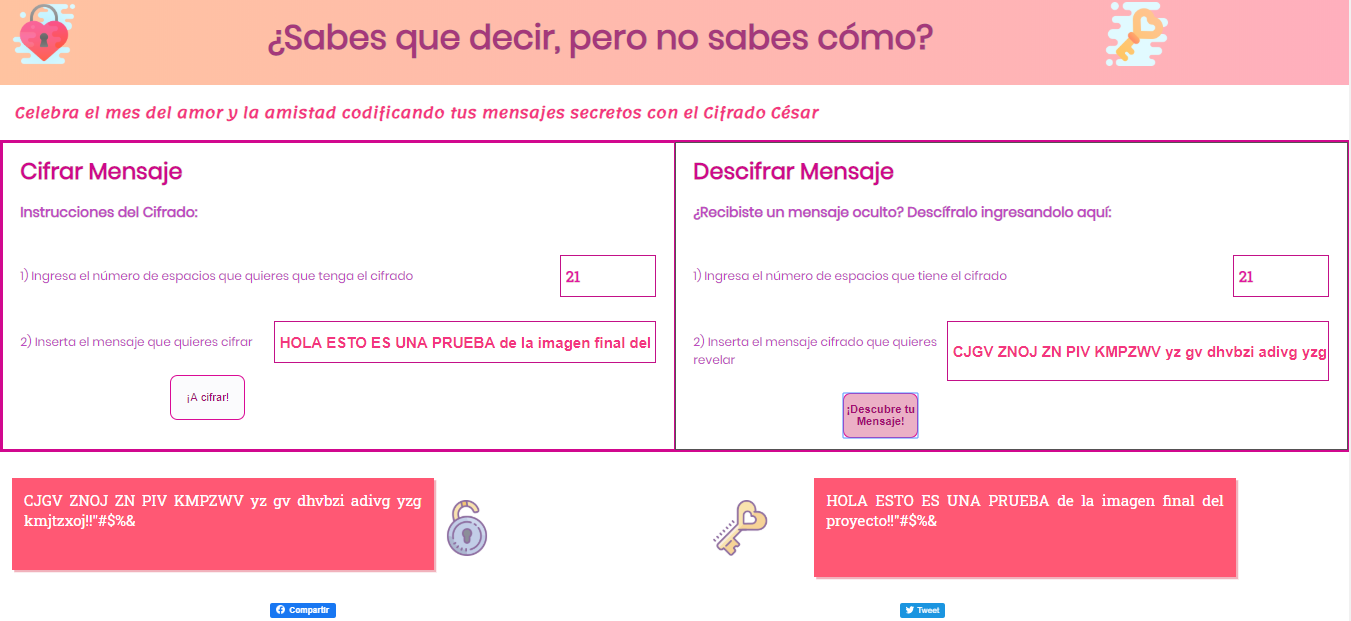
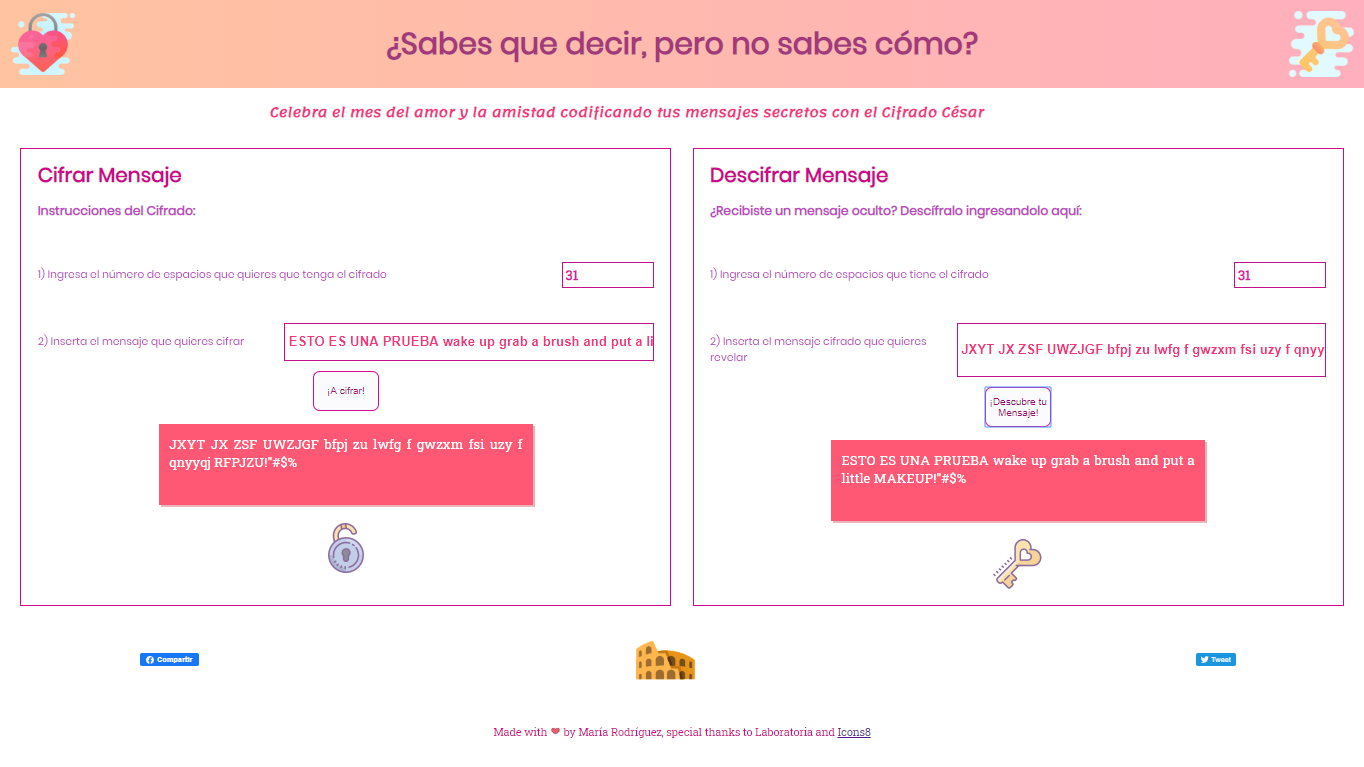
arreglos del responsive

Changed region(s): [[0.0, 0.0, 1.0, 1.0], [0.4041, 0.3366, 0.4352, 0.3671]]

diff --git a/src/style.css b/src/style.css
@@ -10,8 +10,7 @@ footer {
 
 .sharebtn {
   display: grid;
-  grid-template-columns: 45% 45%;
-  gap: 1rem;
+  grid-template-columns: 25% 50% 25%;
   margin-top: 15px;
 }
 
@@ -127,7 +126,7 @@ footer {
 
 #tittle {
   color: rgb(165, 56, 123);
-  font-size: 45px;
+  font-size: 35px;
   font-family: "Poppins", sans-serif;
   text-align: center;
   align-self: center;
@@ -187,6 +186,12 @@ footer {
   height: 90px;
 }
 
+#coliseo {
+  justify-self: center;
+  align-self: center;
+  margin-right: 8%;
+}
+
 #section2 {
   font-family: "Roboto Slab", serif;
   font-size: 20px;
@@ -229,15 +234,15 @@ font-family: 'Roboto Slab', serif; */
   }
 
   #titleImg {
-    width: 100px;
-    height: 100px;
-    align-self: center;
+    width: 80px;
+    height: 90px;
+    align-self: flex-start;
   }
 
   #iconKey {
-    width: 100px;
-    height: 100px;
-    align-self: center;
+    width: 80px;
+    height: 90px;
+    align-self: flex-end;
   }
 
   #section1 {

diff --git a/src/index.html b/src/index.html
@@ -63,6 +63,7 @@
         data-layout="button" data-size="small"><a target="_blank"
           href="https://www.facebook.com/sharer/sharer.php?u=https%3A%2F%2Fluzcry.github.io%2FLIM012-cipher%2Fsrc%2Findex.html&amp;src=sdkpreparse"
           class="fb-xfbml-parse-ignore">Compartir</a></div>
+          <img id="coliseo" src="iconos/coliseo.png" alt="">
       <a href="https://twitter.com/share?ref_src=twsrc%5Etfw" class="twitter-share-button"
         data-show-count="false">Tweet</a>
       <script async src="https://platform.twitter.com/widgets.js" charset="utf-8"></script>

diff --git a/README.md b/README.md
@@ -1,8 +1,8 @@
+**[Link para ver el proyecto en gh pages](https://luzcry.github.io/LIM012-cipher/src/index.html) <br>**
 Cifrado Cesar: <br>
-**negrita** [Link para ver el proyecto en gh pages:](https://luzcry.github.io/LIM012-cipher/src/index.html) <br>
 Una revista digital dirigida a jóvenes que busca impulsar su número de visitas con un juego de cifrado por motivo del mes del amor y la amistad. <br>
 
-feedback recibido: <br>
+**feedback recibido:** <br>
 -Al primer prototipo le faltaba el valor "offset" (coach) <br>
 -Cambiar el orden del input y las instrucciones (coach) <br>
 -Adaptar el diseño a la web (compañera) <br>
@@ -10,7 +10,7 @@ feedback recibido: <br>
 -Usar throw new error en vez de return error (coach) <br>
 -Modificar el Try que estaba envolviendo mis funciones y colocar condicionales para los casos de error en el test(coach)<br>
 
-Prototipo de baja fidelidad hecho en papel <br>
+**Prototipo de baja fidelidad hecho en papel** <br>
 
 ![caeser-cipher](https://luzcry.github.io/LIM012-cipher/src/iconos/prototipo1.jpg)
 
@@ -18,10 +18,10 @@ Prototipo hecho en inVision <br>
 
 ![caeser-cipher](https://luzcry.github.io/LIM012-cipher/src/iconos/prototipo2.png)
 
-Sprint CheckOut: <br>
+**Sprint CheckOut:** <br>
 En el primer sprint hice un prototipo en invision que traduje en HTML usando selectores de CSS. En mi index.js coloqué la funcionalidad de los botones y definí que elementos irian en la ventana de resultados. En cipher.js definí las constantes encode y decode, consta de las variables que las componen (encode: myStringCipher, cipherFormula, newChar; decode: myDecode, decodeFormula, newChar), un bucle for para recorrer el arreglo, una variable para captar el codigo ASCII, aplicarle una formula, devolver el número del caracter cifrado para insertar todo en la variable de resultados. Al momento funciona un cifrado en letras mayúsculas y una condicional if que reconoce si el usuario coloca espacios en el texto.
 
-Planeación del sprint 2 <br>
+**Planeación del sprint 2** <br>
 ¿Qué falta? <br>
 -Condición letras minúsculas <br>
 -Condición caracteres especiales <br>
@@ -30,7 +30,7 @@ Planeación del sprint 2 <br>
 -Conocer sobre los test <br>
 -Pasar mas del 70% de los test. <br>
 
-Sprint checkout 2 <br>
+**Sprint checkout 2**<br>
 -Lista la condición letras minusculas <br>
 -Lista la condición caracteres especiales <br>
 -Cambios en el css <br>
@@ -38,7 +38,7 @@ Sprint checkout 2 <br>
 -Logré pasar los 11 test con una cobertura de 81% en branch, funciones 100%, stmts 89,90% y lineas 97.83% <br>
 -Hice una serie de condiciones con try-catch para cuando el usuario coloca null, vacío o 0 se muestre un typeerror en el test <br>
 
-¿Qué falta del proyecto? <br>
+**¿Qué falta del proyecto?**<br>
 -Hacker edition de offset negativo <br>
 
 <!-- ¿Cómo me sentí?
@@ -47,16 +47,16 @@ Me sentí increíble esta semana, todos los días me ponía una meta puntual y a
 <!--¿Qué siento que puedo mejorar?
 Me gustaría mejorar mi manejo del tiempo, medir la cantidad de horas que debo dedicarle a cada caso en particular, también me gustaría ser mas asertiva a la hora de elegir las prioridades del trabajo, en esta ocasión siento que me enfoqué primero en lo que sabía que podía hacer con relativa facilidad (como HTML, CSS, DOM), huyendole o mirando con cierto temor a la funcionalidad javascript, que es donde sentía que tenía menos dominio, considero que debo afrontar el reto en el próximo proyecto con más convicción, tambien buscaré pedir mas feedback asi no sea por una duda, solo para avanzar en la mejor dirección -->
 
-Investigación UX: <br>
+**Investigación UX:**<br>
 Explicar quiénes son los usuarios y los objetivos en relación con el producto. <br>
 Explicar cómo el producto soluciona los problemas/necesidades de dichos usuarios. <br>
 Los usuarios son personas de 12 años en adelante, que se interesan en tener conocimientos de cultura general mediante la lectura de artículos en una revista digital que fomenta la ciencia entre los mas jóvenes, con motivo del mes del amor y la amistad esta revista quería implementar en su web un juego que les mostrara de manera didáctica uno de los cifrados mas sencillos y antiguos y que, por medio de los botones de compartir, se pudiera captar nuevos lectores del contenido de la pagina. <br>
 El producto satisface los requerimientos del usuario ya que es una web que muestra dos opciones de cifrado y descifrado con sus respectivas instrucciones, unos espacios para colocar el numero de desplazamiento del mensaje, el texto a cifrar/descifrar y un botón que activa el resultado y finalmente unos cuadros vacíos donde aparece el texto cifrado/descifrado al presionar el botón. <br>
 
-Imagen final del proyecto <br>
+**Imagen final del proyecto <br>**
 
 ![caeser-cipher](https://luzcry.github.io/LIM012-cipher/src/iconos/FINAL.png) <br>
 
-Test realizados el 21/02/2020 <br>
-![caeser-cipher](https://luzcry.github.io/LIM012-cipher/src/iconos/wii1.png) <br>
+**Test realizados el 21/02/2020** <br>
 ![caeser-cipher](https://luzcry.github.io/LIM012-cipher/src/iconos/wii2.png)
+![caeser-cipher](https://luzcry.github.io/LIM012-cipher/src/iconos/wii1.png) <br>
